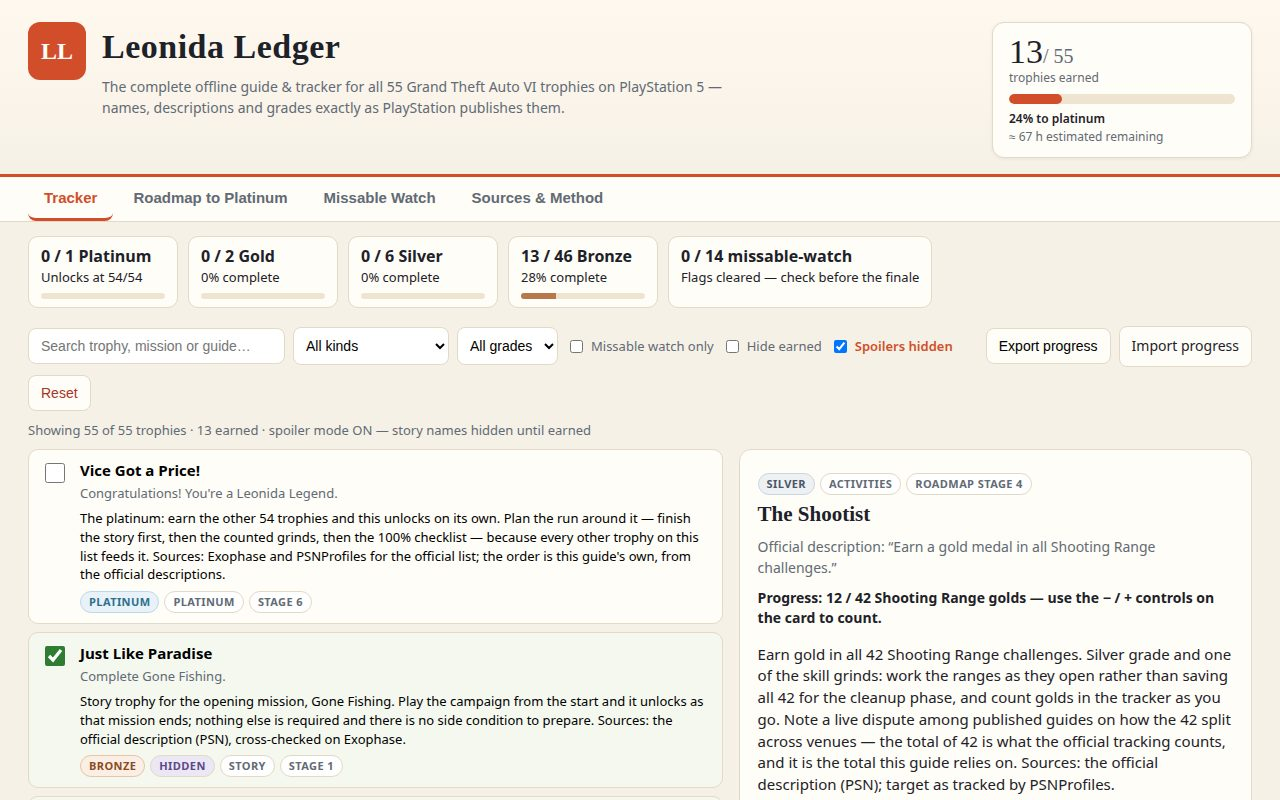
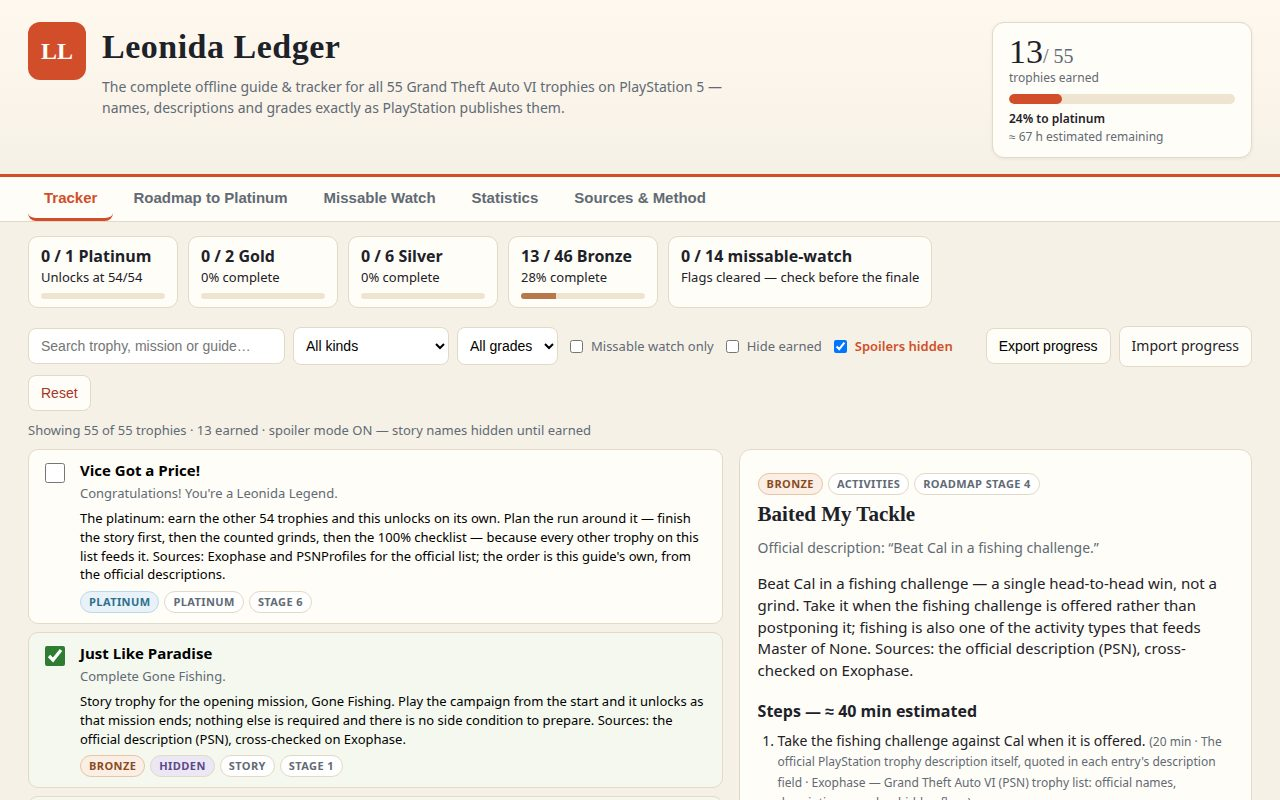
Step 3: cited per-trophy steps (125), notes, Statistics page, platinum strategy, main.ts validation

Changed region(s): [[0.5938, 0.5938, 0.9688, 1.0], [0.375, 0.2188, 0.5625, 0.25]]

diff --git a/app/app.js b/app/app.js
@@ -36,20 +36,21 @@ const TOTAL_HOURS = STAGES.reduce((s, st) => s + st.hours, 0);
 
 const state = loadState();
 let doc = null;
+let stepsDoc = null;
 let selected = null;
 
 function loadState() {
   try {
     const raw = JSON.parse(localStorage.getItem(STORE_KEY) ?? 'null');
     if (raw && Array.isArray(raw.earned)) {
-      return { earned: new Set(raw.earned), counters: raw.counters ?? {}, spoiler: raw.spoiler !== false };
+      return { earned: new Set(raw.earned), counters: raw.counters ?? {}, notes: raw.notes ?? {}, spoiler: raw.spoiler !== false };
     }
   } catch { /* corrupted save: start fresh */ }
-  return { earned: new Set(), counters: {}, spoiler: true };
+  return { earned: new Set(), counters: {}, notes: {}, spoiler: true };
 }
 function saveState() {
   localStorage.setItem(STORE_KEY, JSON.stringify({
-    earned: [...state.earned], counters: state.counters, spoiler: state.spoiler,
+    earned: [...state.earned], counters: state.counters, notes: state.notes, spoiler: state.spoiler,
   }));
 }
 function $(id) { return document.getElementById(id); }
@@ -68,6 +69,7 @@ function trophyProgress(t) { return t.target ? Math.min(state.counters[t.id] ?? 
 
 async function boot() {
   doc = await (await fetch('data/trophies.json')).json();
+  stepsDoc = await (await fetch('data/steps.json')).json();
   $('spoilerToggle').checked = state.spoiler;
   bindControls();
   renderAll();
@@ -116,6 +118,7 @@ function renderAll() {
   renderRoadmap();
   renderMissable();
   renderSources();
+  renderStatistics();
   $('footCount').textContent = `${state.earned.size} of ${doc.trophies.length} earned · ${doc.trophies.filter((t) => t.hidden).length} hidden · saved in your browser`;
 }
 function renderStats() {
@@ -218,6 +221,29 @@ function selectTrophy(t) {
     pane.append(prog);
   }
   pane.append(el('p', 'guide-text', t.guide));
+  const steps = stepsDoc?.steps?.[String(t.id)] ?? [];
+  if (steps.length) {
+    const totalMin = steps.reduce((s, x) => s + (x.estMin ?? 0), 0);
+    pane.append(el('h3', null, `Steps — ≈ ${totalMin} min estimated`));
+    const ol = el('ol', 'steps-list');
+    for (const [i, step] of steps.entries()) {
+      const li = el('li');
+      li.append(document.createTextNode(`${step.text} `));
+      const meta = el('span', 'step-meta', `(${step.estMin ?? 0} min · ${step.cites.map((k) => doc.sources[k] ?? k).join(' · ')})`);
+      li.append(meta);
+      if (step.estimate) li.append(el('span', 'badge unconfirmed', 'Estimate'));
+      ol.append(li);
+    }
+    pane.append(ol);
+  }
+  const noteLabel = el('label', 'note-label', 'Your note for this trophy');
+  const note = document.createElement('textarea');
+  note.className = 'note-input';
+  note.rows = 2;
+  note.placeholder = 'e.g. where you left off, a route that worked…';
+  note.value = state.notes[t.id] ?? '';
+  note.addEventListener('input', () => { state.notes[t.id] = note.value; saveState(); });
+  pane.append(noteLabel, note);
   const risk = el('div', 'risk-box' + (t.missableRisk === 'unknown' ? ' unknown' : ''));
   risk.textContent = t.missableRisk === 'watch'
     ? 'Missable watch — derived from the official description, not confirmed in-game: this trophy is tied to a chapter, mission window or partner. Clear it before the finale.'
@@ -231,9 +257,14 @@ function selectTrophy(t) {
   src.append(el('div', null, `Confidence: ${t.confidence} — ${t.confidence === 'official' ? 'name, description and grade are the official list' : t.confidence === 'derived' ? 'the guide is this entry’s own reading of the official description' : 'the trigger is not settled by any source this guide trusts'}.`));
   pane.append(src);
 }
+const STRATEGY = 'Platinum strategy in one paragraph: play the story straight through (Chapters 1–4, the named missions, the finale) and let the 12 story trophies land on their own — but before the finale, clear the partner one-offs Hot Together and Retail Therapy and try Catch Me If You Can at VCIA, because the official list promises no post-ending window for them. Then close the stranger strands (Andy, Kenton, Billy, Randy, Tyrone, Bret — 8 strands for the silver) while the map is still fresh, sweep the collectibles in one district-by-district pass (18 meditation spots, 3 card sets, 100 WAiNK, 100 vehicles, 10 Scooter Bros, 52 areas — one trip, four counters), grind the activities in the order they open (42 range golds and 250 stunts first, they feed the 100%), then the crime and money set (5 vaults, 9 gangs, $250,000 laundered, $100,000 spent, 8 garages), and let A Long Road and the platinum close last on the cleanup. The four unconfirmed trophies (Challenging Tank, Personal Best, Bad Luck I Guess, The Truth Is Out There) are chased by playing, never by guessing.';
 function renderRoadmap() {
   const box = $('roadmapList');
   box.replaceChildren();
+  const strat = el('div', 'strategy-box');
+  strat.append(el('b', null, 'How the six stages link: '));
+  strat.append(document.createTextNode(STRATEGY));
+  box.append(strat);
   for (const st of STAGES) {
     const trophies = doc.trophies.filter((t) => st.kinds.includes(t.kind));
     const got = trophies.filter((t) => state.earned.has(t.name)).length;
@@ -264,6 +295,49 @@ function renderMissable() {
     box.append(card);
   }
 }
+function renderStatistics() {
+  const box = $('statsGrid');
+  if (!box) return;
+  box.replaceChildren();
+  const total = doc.trophies.length;
+  const earned = state.earned.size;
+  // Money trophies are excluded from the summed counter: dollars and counts cannot be
+  // added honestly, so the sum covers the 18 non-money counted trophies only.
+  const counted = doc.trophies.filter((t) => t.target);
+  const countedSum = counted.filter((t) => t.kind !== 'money');
+  const countedDone = countedSum.reduce((s, t) => s + (trophyProgress(t) ?? 0), 0);
+  const countedTotal = countedSum.reduce((s, t) => s + t.target, 0);
+  const hidden = doc.trophies.filter((t) => t.hidden);
+  const hiddenGot = hidden.filter((t) => state.earned.has(t.name)).length;
+  const rows = [
+    ['Trophies earned', `${earned} / ${total}`, `${Math.round(100 * earned / total)}% of the platinum`],
+    ['By grade', GRADE_ORDER.map((g) => `${doc.trophies.filter((t) => t.grade === g && state.earned.has(t.name)).length}/${doc.trophies.filter((t) => t.grade === g).length} ${GRADE_LABEL[g]}`).join(' · '), '1 platinum, 2 gold, 6 silver, 46 bronze in the official list'],
+    ['Counted progress', `${countedDone.toLocaleString()} / ${countedTotal.toLocaleString()}`, 'Across the 18 non-money trophies with a PSN-tracked target (dollars counted separately)'],
+    ['Hidden trophies', `${hiddenGot} / ${hidden.length} earned`, '28 of the 55 are hidden on PlayStation until earned'],
+    ['Missable watch', `${doc.trophies.filter((t) => t.missableRisk !== 'none' && state.earned.has(t.name)).length} / ${doc.trophies.filter((t) => t.missableRisk !== 'none').length} cleared`, '10 watch + 4 unconfirmed — clear them before the finale'],
+    ['Guide depth', `${stepsDoc ? Object.values(stepsDoc.steps).flat().length : 0} cited steps`, 'Every step cites Exophase, PSNProfiles, the official description, or this guide’s own reading — 14 steps flagged as estimates'],
+    ['Estimated time left', `≈ ${Math.round(TOTAL_HOURS * (total - earned) / total)} h`, 'Roadmap estimate across the six stages'],
+  ];
+  for (const [label, value, note] of rows) {
+    const card = el('div', 'stat-card');
+    card.append(el('div', 'stat-label', label));
+    card.append(el('div', 'stat-value', value));
+    card.append(el('div', 'stat-note', note));
+    box.append(card);
+  }
+  const countedBox = $('countedTable');
+  countedBox.replaceChildren();
+  for (const t of counted) {
+    const row = el('div', 'counted-row');
+    row.append(el('span', null, t.name));
+    row.append(el('span', 'counted-num', `${trophyProgress(t)} / ${t.target} ${t.unit}`));
+    const bar = el('div', 'grade-bar'); const fill = el('i');
+    fill.style.width = (100 * (trophyProgress(t) ?? 0) / t.target) + '%';
+    fill.style.background = 'var(--accent)';
+    bar.append(fill); row.append(bar);
+    countedBox.append(row);
+  }
+}
 function renderSources() {
   const box = $('sourcesGrid');
   box.replaceChildren();
@@ -275,7 +349,7 @@ function renderSources() {
   }
 }
 function exportProgress() {
-  const data = { app: 'leonida-ledger', exportedAt: new Date().toISOString(), earned: [...state.earned], counters: state.counters };
+  const data = { app: 'leonida-ledger', exportedAt: new Date().toISOString(), earned: [...state.earned], counters: state.counters, notes: state.notes };
   const a = document.createElement('a');
   a.href = URL.createObjectURL(new Blob([JSON.stringify(data, null, 2)], { type: 'application/json' }));
   a.download = 'leonida-ledger-progress.json';
@@ -295,6 +369,10 @@ async function importProgress(e) {
     for (const [id, v] of Object.entries(data.counters ?? {})) {
       const t = doc.trophies.find((x) => String(x.id) === String(id));
       if (t && t.target) state.counters[t.id] = Math.max(0, Math.min(t.target, Number(v) || 0));
+    }
+    state.notes = {};
+    for (const [id, v] of Object.entries(data.notes ?? {})) {
+      if (typeof v === 'string' && doc.trophies.some((x) => String(x.id) === String(id))) state.notes[id] = v.slice(0, 2000);
     }
     saveState(); renderAll();
     alert(`Imported ${earned.length} earned trophies.`);

diff --git a/main.ts b/main.ts
@@ -7,7 +7,7 @@
 // Outside the grader, MAKEFUN_OUTPUT_DIR stands in for /output:
 //   mkdir -p out && MAKEFUN_OUTPUT_DIR=out node main.ts
 
-import { cpSync, existsSync, mkdirSync, writeFileSync } from 'node:fs';
+import { cpSync, existsSync, mkdirSync, readFileSync, writeFileSync } from 'node:fs';
 import { join } from 'node:path';
 import { fileURLToPath } from 'node:url';
 import { buildDossier } from './vendor/makefun-frontend.ts';
@@ -15,14 +15,36 @@ import { buildDossier } from './vendor/makefun-frontend.ts';
 const here = fileURLToPath(new URL('.', import.meta.url));
 const out = process.env.MAKEFUN_OUTPUT_DIR ?? '/output';
 
+// Fail fast, before copying anything, if the guide is not complete: the app shell,
+// the trophy data and the step data must all exist, and the trophy file must name
+// all 55 official trophies with a non-blank guide (the gate's trophies row).
+const trophyDoc = JSON.parse(readFileSync(join(here, 'app', 'data', 'trophies.json'), 'utf-8'));
+if (!Array.isArray(trophyDoc.trophies) || trophyDoc.trophies.length !== 55) {
+  throw new Error(`Leonida Ledger: trophies.json must hold 55 trophies, found ${trophyDoc.trophies?.length ?? 0}`);
+}
+for (const t of trophyDoc.trophies) {
+  if (typeof t.name !== 'string' || !t.name || typeof t.guide !== 'string' || !t.guide.trim()) {
+    throw new Error(`Leonida Ledger: trophy ${JSON.stringify(t)} is missing a name or guide`);
+  }
+}
+const stepDoc = JSON.parse(readFileSync(join(here, 'app', 'data', 'steps.json'), 'utf-8'));
+if (Object.keys(stepDoc.steps ?? {}).length !== 55) {
+  throw new Error('Leonida Ledger: steps.json must hold steps for all 55 trophies');
+}
+
 mkdirSync(out, { recursive: true });
 cpSync(join(here, 'app'), join(out, 'app'), { recursive: true });
 mkdirSync(join(out, 'screenshots'), { recursive: true });
 if (existsSync(join(here, 'screenshots'))) cpSync(join(here, 'screenshots'), join(out, 'screenshots'), { recursive: true });
 
 // Gate caps from the kit's RULES.txt: at most 4 screenshots of 256 KiB each, app/ at most
-// 993 files and directories and 48 MiB, dossier text at most 163,840 bytes.
+// 993 files and directories and 48 MiB, dossier text at most 163,840 bytes. The run is
+// deterministic: the same repository always writes the same dossier bytes.
+if (!existsSync(join(here, 'screenshots'))) {
+  throw new Error('Leonida Ledger: screenshots/ is missing — the dossier needs 3 or 4 real renders');
+}
 writeFileSync(
   join(out, 'dossier.json'),
   buildDossier(out, { text_max_bytes: 163840, screenshots: { max: 4, max_bytes: 262144 }, app_max_files: 993, app_max_bytes: 50331648 }),
 );
+console.log(`Leonida Ledger: handed in 55 trophies, ${Object.keys(stepDoc.steps).length} step sets, dossier written to ${out}`);

diff --git a/app/style.css b/app/style.css
@@ -111,6 +111,21 @@ button.danger { color: var(--danger); }
 .method-list { max-width: 860px; }
 .method-list li { margin-bottom: 8px; }
 .fineprint { color: var(--muted); font-size: 13px; max-width: 860px; }
+.steps-list { margin: 8px 0 4px; padding-left: 20px; }
+.steps-list li { margin-bottom: 8px; font-size: 14px; }
+.step-meta { color: var(--muted); font-size: 12px; }
+.note-label { display: block; font-size: 13px; font-weight: 700; margin-top: 12px; }
+.note-input { width: 100%; margin-top: 4px; padding: 8px 10px; border: 1px solid var(--line); border-radius: 8px; font: inherit; font-size: 14px; background: #fff; }
+.strategy-box { background: var(--accent-soft); border: 1px solid #f0c9b8; border-radius: 12px; padding: 14px 18px; margin-bottom: 12px; font-size: 14px; }
+.stats-grid { display: grid; grid-template-columns: repeat(auto-fill, minmax(280px, 1fr)); gap: 12px; margin-bottom: 8px; }
+.stat-card { background: var(--card); border: 1px solid var(--line); border-radius: 10px; padding: 12px 14px; }
+.stat-label { font-size: 12px; text-transform: uppercase; letter-spacing: .5px; color: var(--muted); font-weight: 700; }
+.stat-value { font-size: 19px; font-weight: 700; margin: 4px 0 2px; }
+.stat-note { font-size: 13px; color: var(--muted); }
+.counted-table { display: flex; flex-direction: column; gap: 6px; max-width: 860px; }
+.counted-row { display: grid; grid-template-columns: 1fr 170px; gap: 8px 12px; align-items: center; background: var(--card); border: 1px solid var(--line); border-radius: 8px; padding: 8px 12px; font-size: 14px; }
+.counted-row .grade-bar { grid-column: 1 / -1; margin-top: 0; }
+.counted-num { font-weight: 700; text-align: right; }
 .foot { display: flex; justify-content: space-between; padding: 14px 28px; border-top: 1px solid var(--line); color: var(--muted); font-size: 13px; }
 @media (max-width: 900px) {
   .tracker-grid { grid-template-columns: 1fr; }

diff --git a/app/index.html b/app/index.html
@@ -28,6 +28,7 @@
   <button type="button" class="tab active" data-view="tracker">Tracker</button>
   <button type="button" class="tab" data-view="roadmap">Roadmap to Platinum</button>
   <button type="button" class="tab" data-view="missable">Missable Watch</button>
+  <button type="button" class="tab" data-view="stats">Statistics</button>
   <button type="button" class="tab" data-view="sources">Sources &amp; Method</button>
 </nav>
 
@@ -80,6 +81,14 @@
   <h2>Missable Watch</h2>
   <p class="section-intro">Every flag here is derived from the official description and labelled honestly. <strong>Watch</strong> means the description ties the trophy to a chapter, a mission window or a partner who may not be there later — the risk is real but not confirmed in-game. <strong>Unconfirmed</strong> means the description does not pin the trigger down at all, and this guide invents nothing for it.</p>
   <div class="missable-list" id="missableList"></div>
+</section>
+
+<section class="view" id="view-stats">
+  <h2>Statistics</h2>
+  <p class="section-intro">Your progress against the official list — by grade, by counted target, by hidden trophy, and by missable flag. Counts come from the official descriptions and PSN's tracked targets.</p>
+  <div class="stats-grid" id="statsGrid"></div>
+  <h3>Counted trophies — progress toward each target</h3>
+  <div class="counted-table" id="countedTable"></div>
 </section>
 
 <section class="view" id="view-sources">
